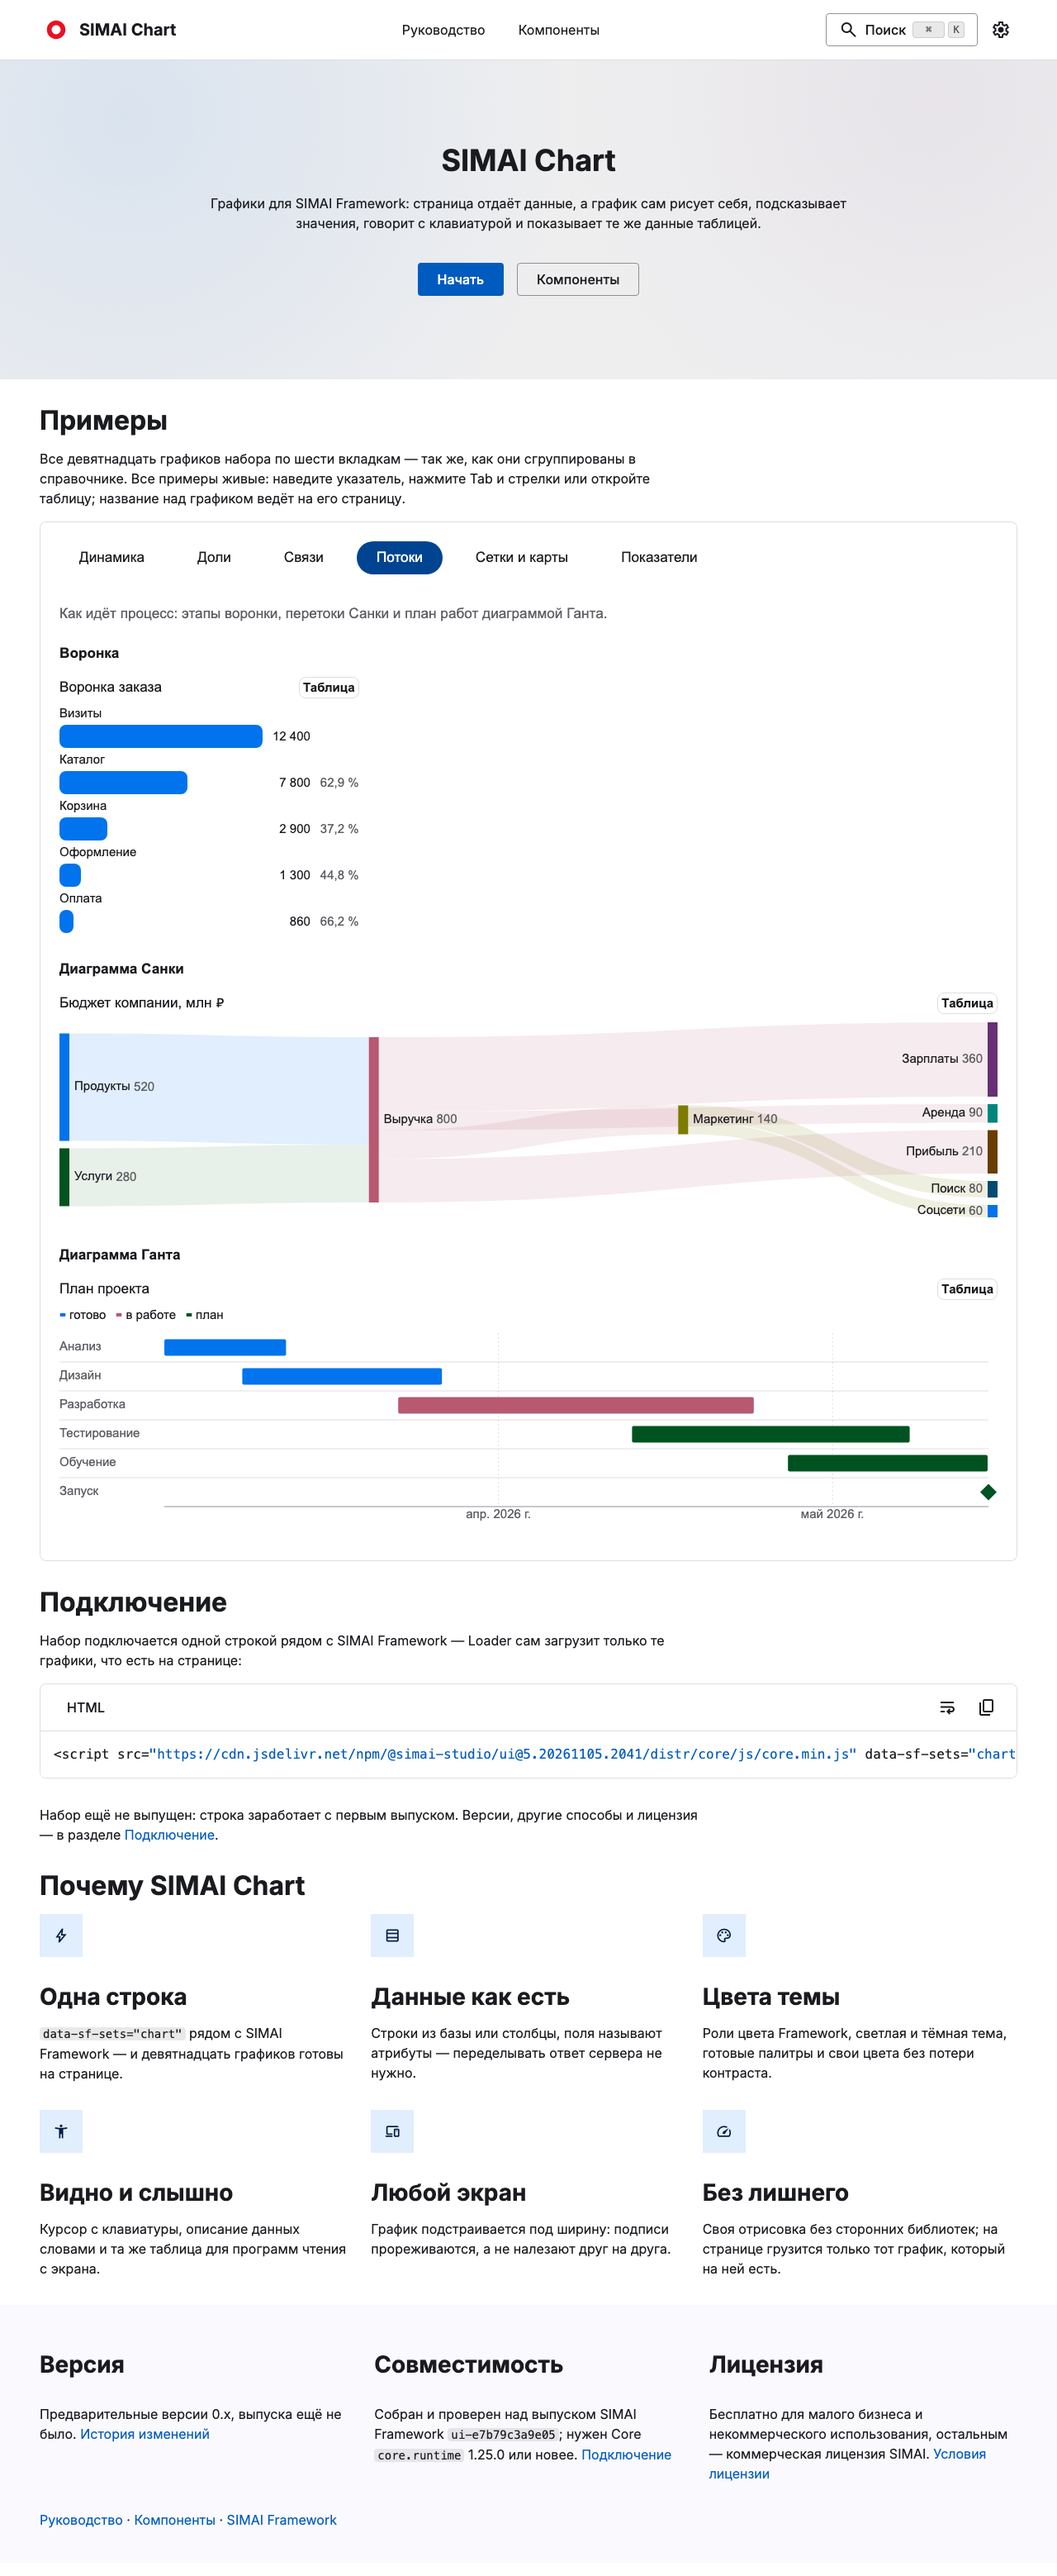
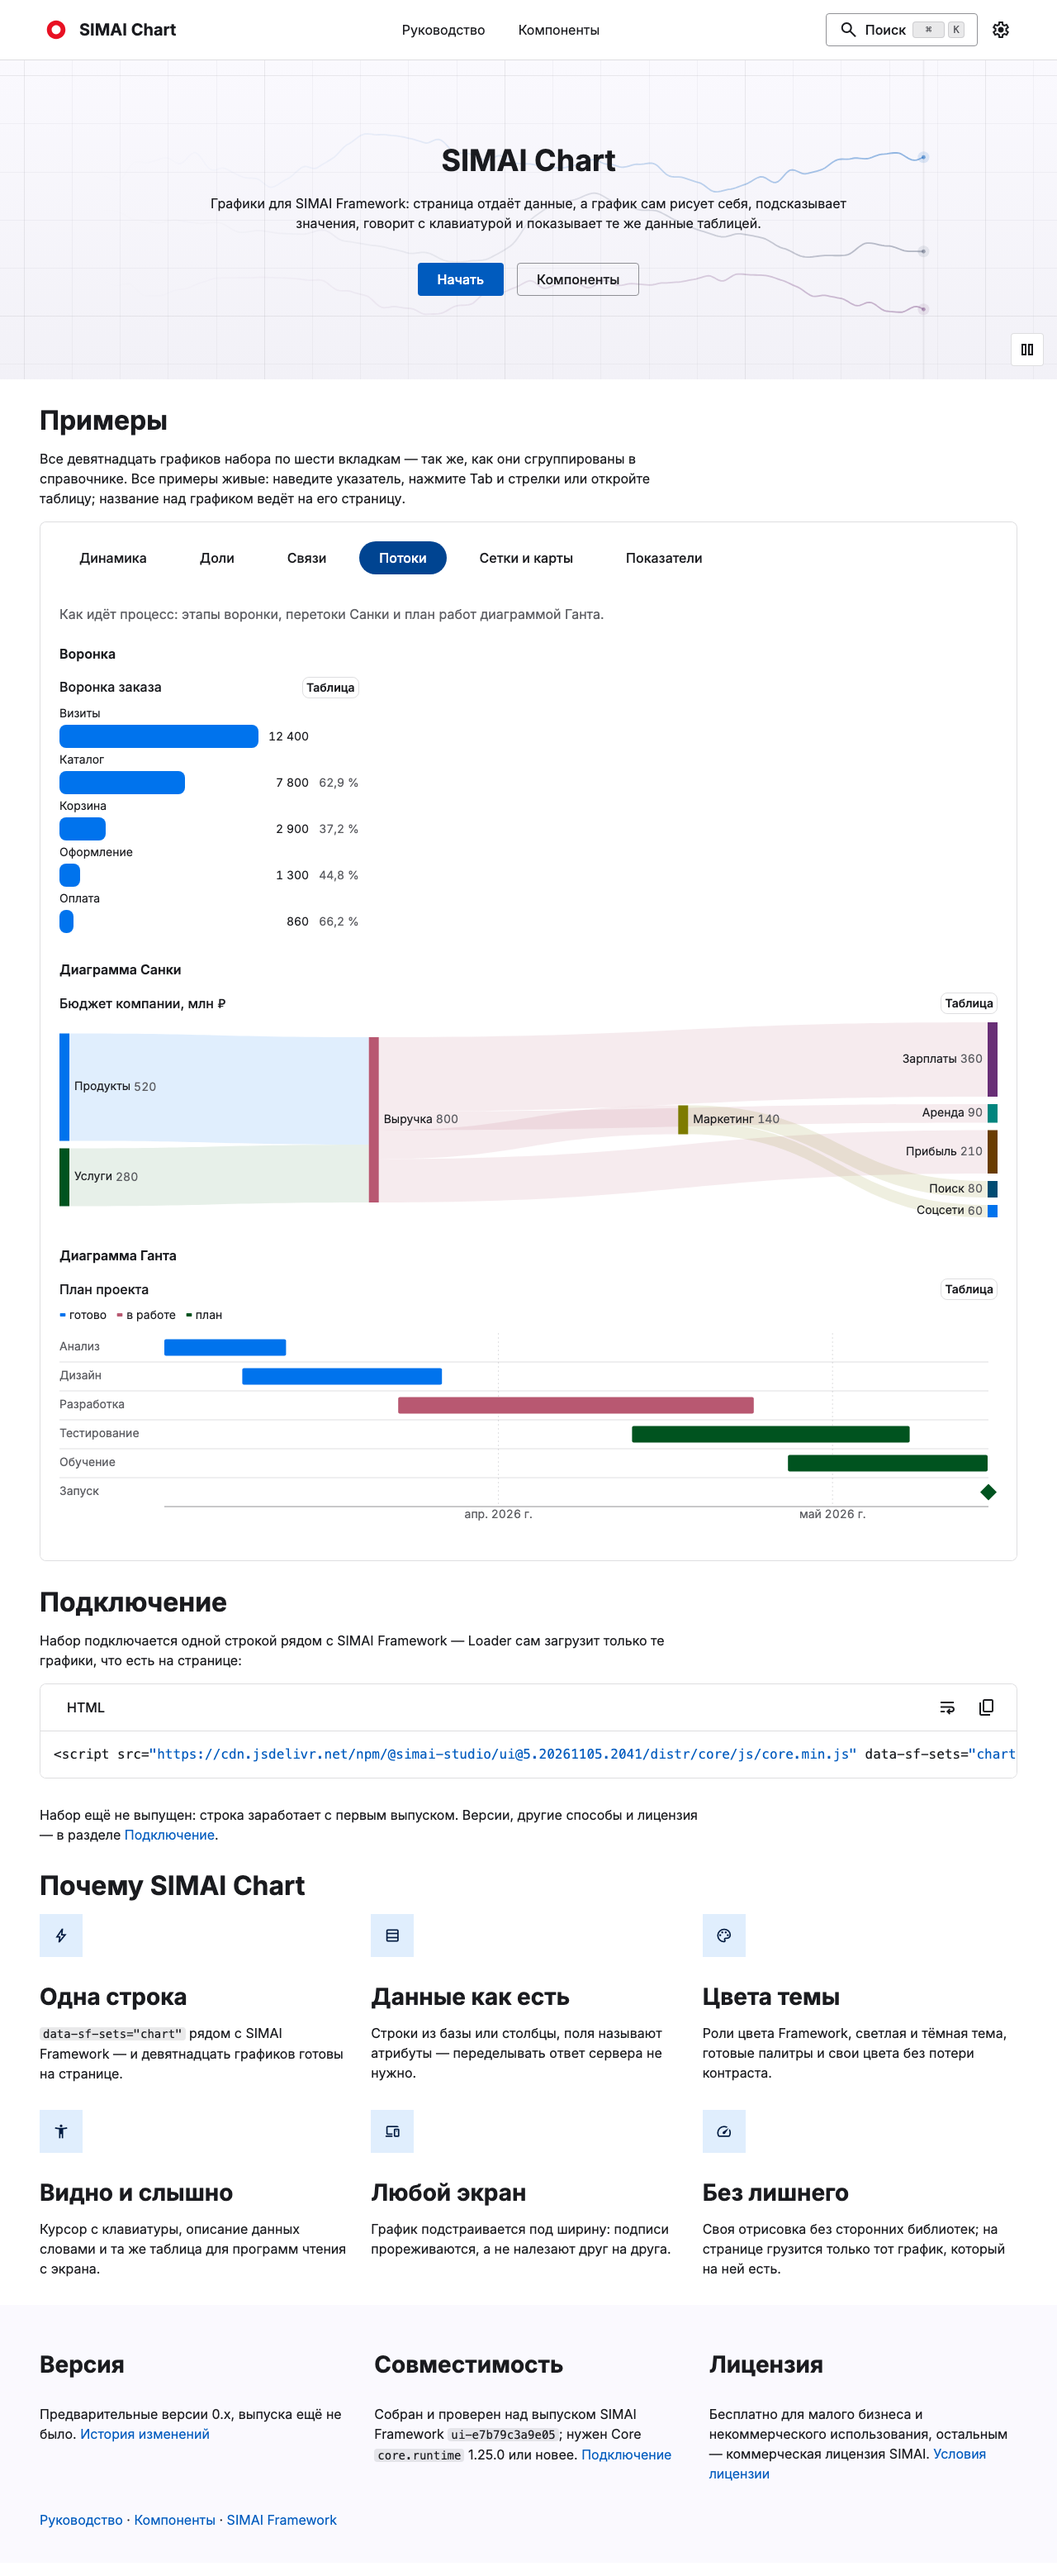
Site: the home hero draws the chart-recorder effect behind it
The effect «Самописец» was made for this site in simai/ui-effects at the
owner's request (bus msg-b4120fd7e2e949d0a43b). It is laid through Docara's
hero effect, the effects catalogue pinned in docara.json to ui-effects
264cb2efc182fd7af6bc273bdcc3006f1588af18. verify-static 47 pages, 0 broken;
evidence 34 shots, no problem.

diff --git a/docs/evidence/set-site.md b/docs/evidence/set-site.md
@@ -94,8 +94,13 @@ The owner looked at ui-chart.test on 2026-11-06 and asked for:
   reference (six), each with every chart of its group, titled and linked to
   its page. `build-pages.mjs` writes it from `config/components.json` and
   each chart's own example, so it cannot drift from the set.
-- **A taller hero** (`padding=2xl`), ready for a background effect of its
-  own, which the owner will make on effects.simai.io.
+- **A taller hero** (`padding=2xl`) with a background of its own: the
+  effect `chart-recorder` («Самописец»), made for this site at the owner's
+  request in simai/ui-effects (bus `msg-b4120fd7e2e949d0a43b`). It is laid
+  through Docara's hero `effect`, with the effects catalogue pinned in
+  `docara.json` to ui-effects commit
+  `264cb2efc182fd7af6bc273bdcc3006f1588af18`; it follows the page's theme
+  and has its own pause button.
 - **A calmer bottom.** No more than three blocks a row: the advantages are
   two rows of three columns without frames, and the footer has three
   columns, with the links as one line under them.

diff --git a/site/content/ru/index.md b/site/content/ru/index.md
@@ -3,7 +3,7 @@ description: SIMAI Chart — графики для SIMAI Framework, подклю
 profile: landing
 ---
 
-:::hero {layout=centered padding=2xl media=none}
+:::hero {layout=centered padding=2xl effect=chart-recorder}
 # SIMAI Chart
 
 Графики для SIMAI Framework: страница отдаёт данные, а график сам рисует себя, подсказывает значения, говорит с клавиатурой и показывает те же данные таблицей.
